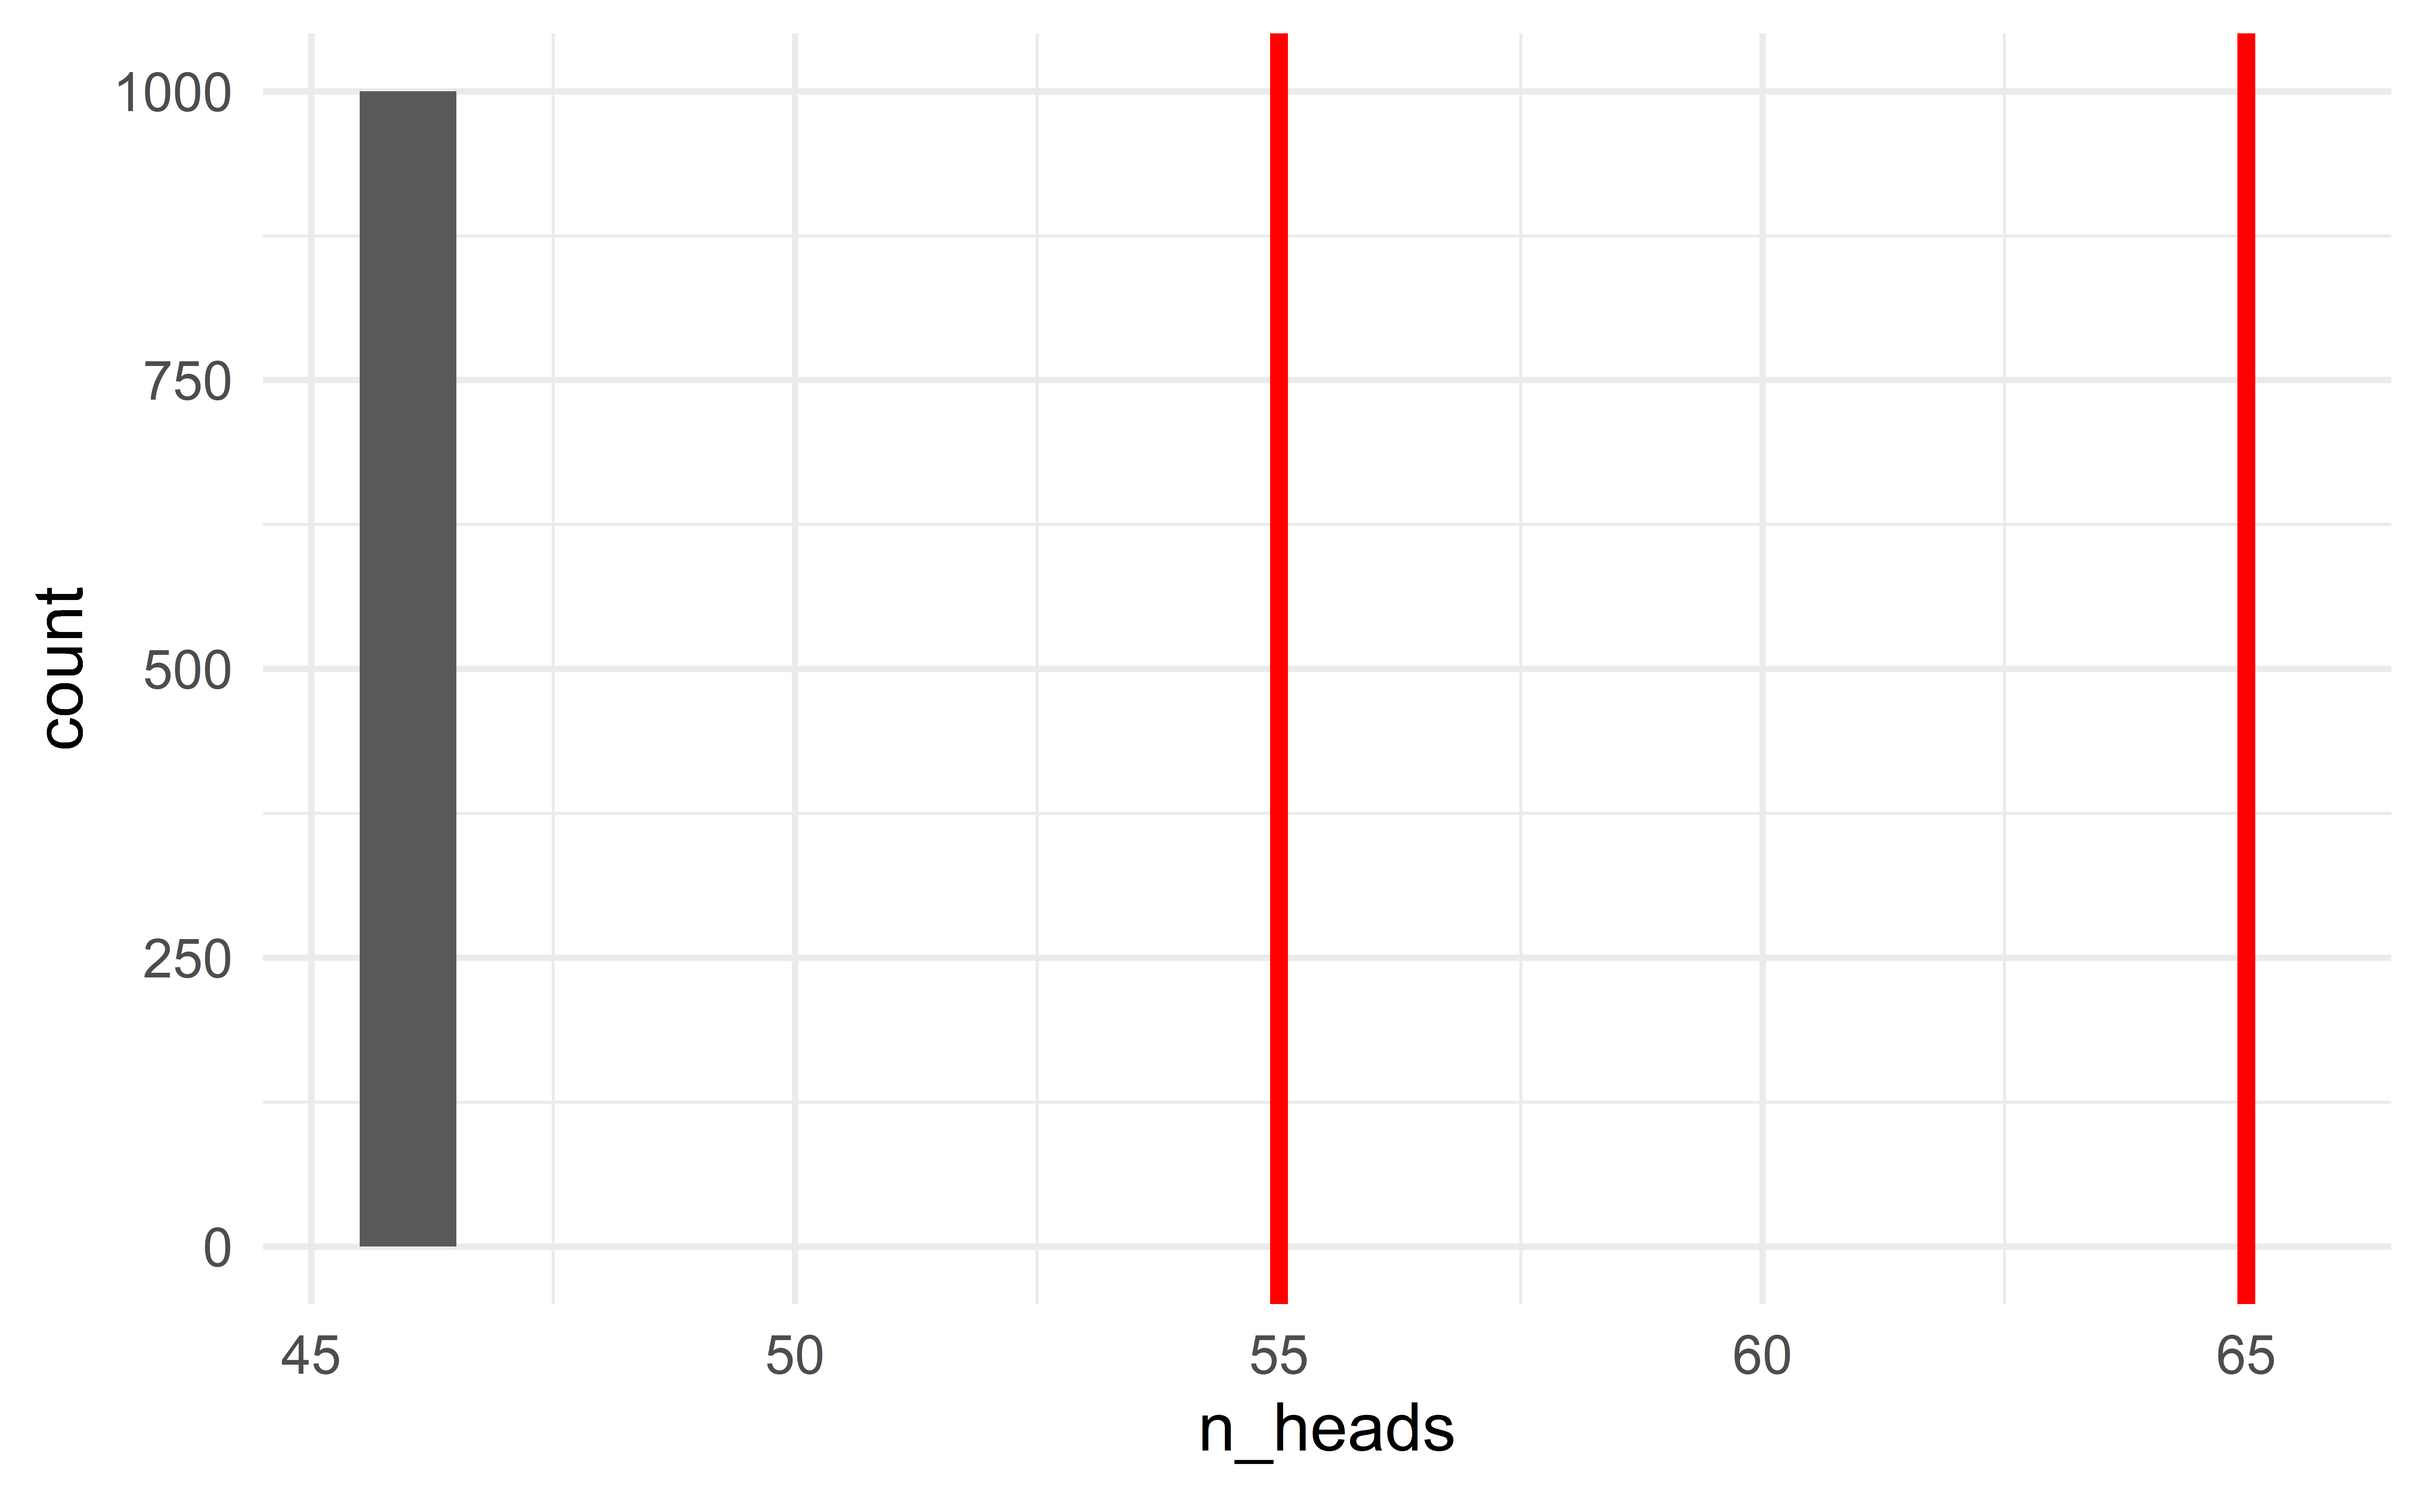
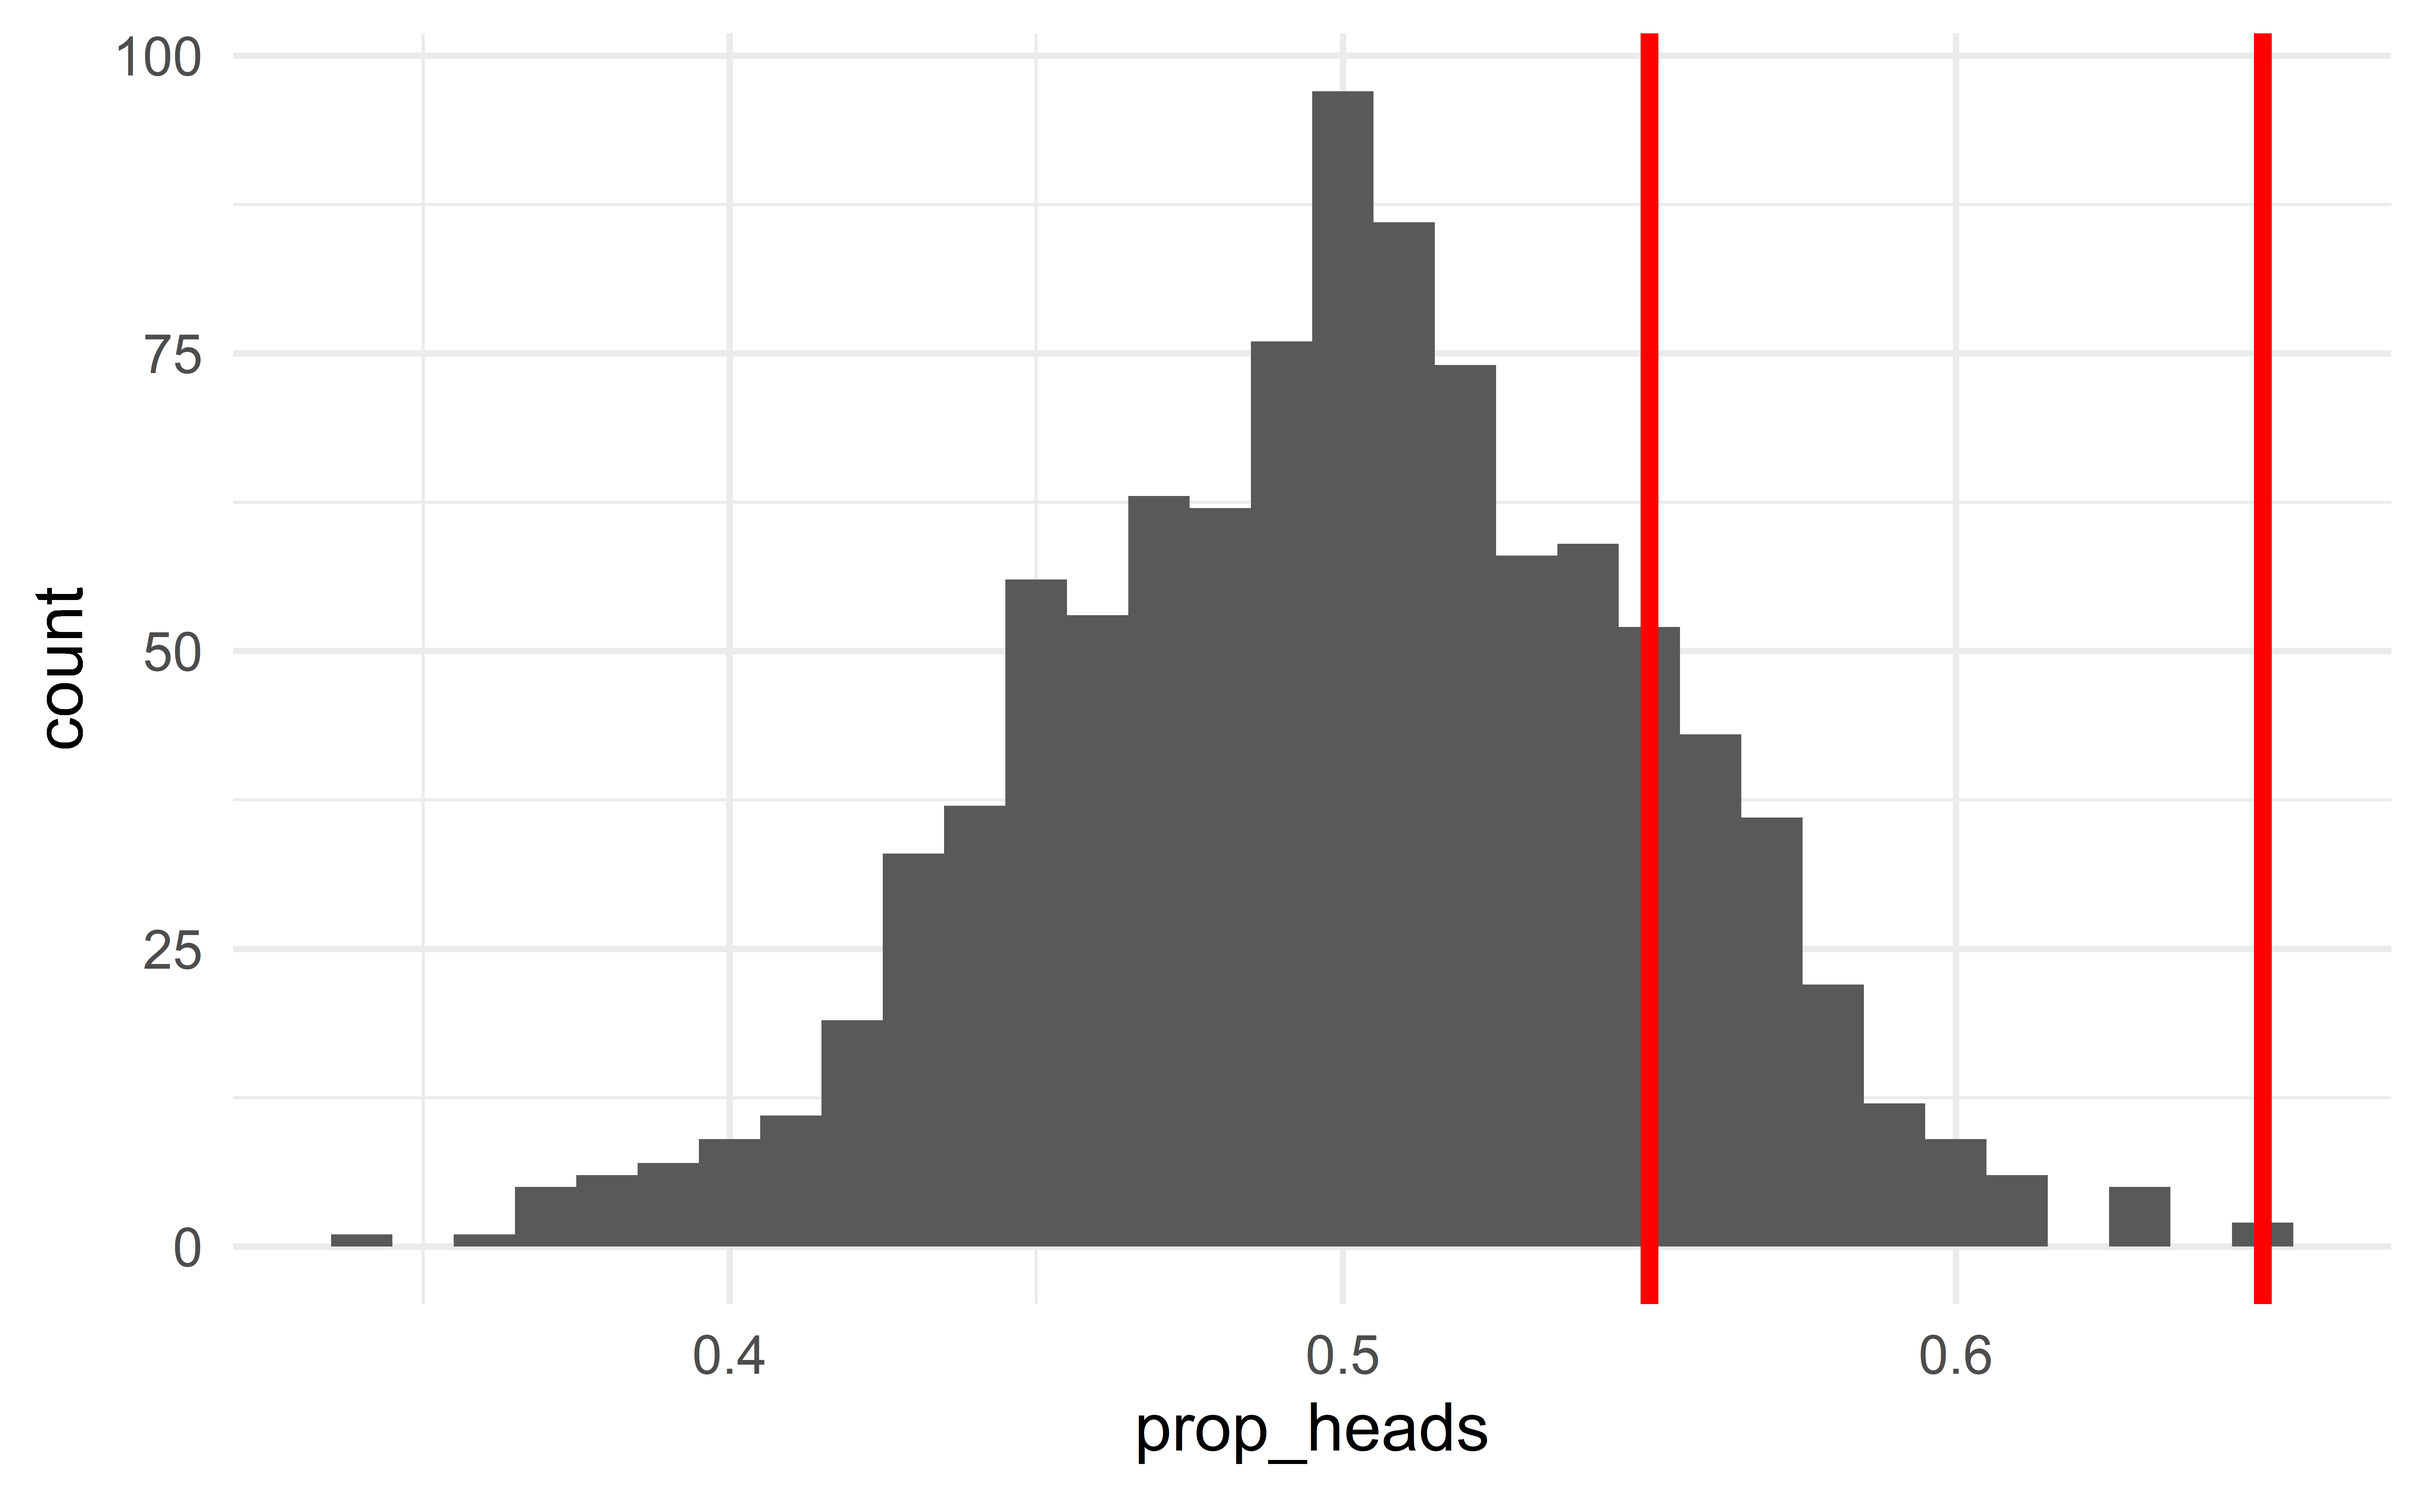
lec-8 typos

diff --git a/docs/slides/lec-8.html b/docs/slides/lec-8.html
@@ -488,7 +488,7 @@
 </div>
 <div class="cell" data-layout-align="center">
 <div class="cell-output-display">
-<div class="countdown" id="timer_62964e37" style="right:0;bottom:0;" data-warnwhen="0">
+<div class="countdown" id="timer_6297ff8a" style="right:0;bottom:0;" data-warnwhen="0">
 <code class="countdown-time"><span class="countdown-digits minutes">03</span><span class="countdown-digits colon">:</span><span class="countdown-digits seconds">00</span></code>
 </div>
 </div>
@@ -668,12 +668,12 @@
 <li><p><span class="math inline">\(H_0:\)</span> the proportion of vegetarian is the same among undergraduate and graduate students (“nothing is going on”) <span class="math display">\[
 H_0: p_{diff}=p_{undegrad}-p_{grad}=0
 \]</span> <span class="math display">\[
-H_0: p_{undegrad}=p_{grad}
+H_a: p_{undegrad}=p_{grad}
 \]</span></p></li>
 <li><p><span class="math inline">\(H_a:\)</span> the proportion of vegetarians among undergraduate and graduate students is not the same (“something is going on”). <span class="math display">\[
 H_0: p_{diff}=p_{undegrad}-p_{grad}\neq0
 \]</span> <span class="math display">\[
-H_0: p_{undegrad}\neq p_{grad}
+H_a: p_{undegrad}\neq p_{grad}
 \]</span></p></li>
 </ul>
 </section>
@@ -712,7 +712,7 @@ H_0: p_{undegrad}\neq p_{grad}
 </div>
 <div class="cell" data-layout-align="center">
 <div class="cell-output-display">
-<div class="countdown" id="timer_62964d08" style="right:0;bottom:0;" data-warnwhen="0">
+<div class="countdown" id="timer_6297ff23" style="right:0;bottom:0;" data-warnwhen="0">
 <code class="countdown-time"><span class="countdown-digits minutes">04</span><span class="countdown-digits colon">:</span><span class="countdown-digits seconds">00</span></code>
 </div>
 </div>
@@ -773,7 +773,7 @@ H_0: p_{undegrad}\neq p_{grad}
 </div>
 <div class="cell" data-layout-align="center">
 <div class="cell-output-display">
-<div class="countdown" id="timer_62964c5e" style="right:0;bottom:0;" data-warnwhen="0">
+<div class="countdown" id="timer_6297fc32" style="right:0;bottom:0;" data-warnwhen="0">
 <code class="countdown-time"><span class="countdown-digits minutes">03</span><span class="countdown-digits colon">:</span><span class="countdown-digits seconds">00</span></code>
 </div>
 </div>
@@ -789,7 +789,7 @@ H_0: p_{undegrad}\neq p_{grad}
 <p><strong>CI</strong>: range of plausible values for the population parameter.</p>
 <p>There always is natural variability in the data.</p>
 <ul>
-<li><p>If we draw a second sample from the population, the two samples will differ and the sample statistics will not be the same (e.g., <span class="math inline">\(\hat{p}_1\neq\hat{p}_2\)</span>, <span class="math inline">\(\bar{x}_1\neq\bar{x}_2\)</span> and <span class="math inline">\(\hat{\beta}^{(1)\neq\bar{x}_2\)</span>).</p></li>
+<li><p>If we draw a second sample from the population, the two samples will differ and the sample statistics will not be the same (e.g., <span class="math inline">\(\hat{p}_1\neq\hat{p}_2\)</span>, <span class="math inline">\(\bar{x}_1\neq\bar{x}_2\)</span> and <span class="math inline">\(\hat{\beta}^{(1)}_1\neq\hat{\beta}^{(2)}_1\)</span>).</p></li>
 <li><p>There is thus no reason to believe that the sample statistic in the first sample is exactly equal to the population parameter (e.g.&nbsp;<span class="math inline">\(\hat{p}_1 = p\)</span> and <span class="math inline">\(\bar{x}_1=\mu\)</span>).</p></li>
 </ul>
 </section>
@@ -854,7 +854,7 @@ H_0: p_{undegrad}\neq p_{grad}
 </div>
 <div class="cell" data-layout-align="center">
 <div class="cell-output-display">
-<div class="countdown" id="timer_62964f0a" style="right:0;bottom:0;" data-warnwhen="0">
+<div class="countdown" id="timer_6297fc26" style="right:0;bottom:0;" data-warnwhen="0">
 <code class="countdown-time"><span class="countdown-digits minutes">02</span><span class="countdown-digits colon">:</span><span class="countdown-digits seconds">00</span></code>
 </div>
 </div>
@@ -879,7 +879,7 @@ H_0: p_{undegrad}\neq p_{grad}
 <p>Distribution of the sample statistic <span class="math inline">\(\hat{p}\)</span> when <span class="math inline">\(H_0\)</span> is true.</p>
 <div class="cell" data-layout-align="center">
 <div class="sourceCode" id="cb4"><pre class="sourceCode numberSource r cell-code number-lines code-with-copy"><code class="sourceCode r"><span id="cb4-1"><a href="#cb4-1"></a><span class="fu">ggplot</span>(results) <span class="sc">+</span></span>
-<span id="cb4-2"><a href="#cb4-2"></a>  <span class="fu">geom_histogram</span>(<span class="fu">aes</span>(n_heads), <span class="at">binwidth =</span> <span class="dv">1</span>) <span class="co"># set the binwidth to 1 to ensure that each bin corresponds to exactly one integer.</span></span></code><button title="Copy to Clipboard" class="code-copy-button"><i class="bi"></i></button></pre></div>
+<span id="cb4-2"><a href="#cb4-2"></a>  <span class="fu">geom_histogram</span>(<span class="fu">aes</span>(prop_heads), <span class="at">binwidth =</span> <span class="fl">0.01</span>)</span></code><button title="Copy to Clipboard" class="code-copy-button"><i class="bi"></i></button></pre></div>
 
 </div>
 <img data-src="lec-8_files/figure-revealjs/unnamed-chunk-7-1.png" style="width:80.0%" class="r-stretch quarto-figure-center"></section>
@@ -905,14 +905,14 @@ H_0: p_{undegrad}\neq p_{grad}
 <h2>Null and alternative hypotheses</h2>
 <ul>
 <li><p><span class="math inline">\(H_0:p=0.5\)</span> (the coin is fair)</p></li>
-<li><p><span class="math inline">\(H_0:p\neq0.5\)</span> (the coin is not fair)</p></li>
+<li><p><span class="math inline">\(H_a:p\neq0.5\)</span> (the coin is not fair)</p></li>
 </ul>
 </section>
 <section id="like-jurors-in-the-justice-system" class="slide level2 smaller">
 <h2>Like jurors in the justice system</h2>
 <ul>
 <li><p><span class="math inline">\(H_0:\)</span> innocent (the coin is fair)</p></li>
-<li><p><span class="math inline">\(H_0:\)</span> guilty (the coin is not fair)</p></li>
+<li><p><span class="math inline">\(H_a:\)</span> guilty (the coin is not fair)</p></li>
 </ul>
 <p>Question: do the facts (the sample) provide sufficient evidence to reject the claim that the defendant is innocent (that the coin is fair)?</p>
 <ul>
@@ -937,8 +937,8 @@ H_0: p_{undegrad}\neq p_{grad}
 <h2></h2>
 <div class="cell" data-layout-align="center">
 <div class="sourceCode" id="cb5"><pre class="sourceCode numberSource r cell-code number-lines code-with-copy"><code class="sourceCode r"><span id="cb5-1"><a href="#cb5-1"></a><span class="fu">ggplot</span>(results) <span class="sc">+</span> </span>
-<span id="cb5-2"><a href="#cb5-2"></a>  <span class="fu">geom_histogram</span>(<span class="fu">aes</span>(n_heads), <span class="at">binwidth =</span> <span class="dv">1</span>) <span class="sc">+</span></span>
-<span id="cb5-3"><a href="#cb5-3"></a>  <span class="fu">geom_vline</span>(<span class="at">xintercept =</span> <span class="fu">c</span>(<span class="dv">55</span>,<span class="dv">65</span>), <span class="at">col =</span> <span class="st">"red"</span>, <span class="at">size =</span> <span class="dv">2</span>)</span></code><button title="Copy to Clipboard" class="code-copy-button"><i class="bi"></i></button></pre></div>
+<span id="cb5-2"><a href="#cb5-2"></a>  <span class="fu">geom_histogram</span>(<span class="fu">aes</span>(prop_heads), <span class="at">binwidth =</span> <span class="fl">0.01</span>) <span class="sc">+</span></span>
+<span id="cb5-3"><a href="#cb5-3"></a>  <span class="fu">geom_vline</span>(<span class="at">xintercept =</span> <span class="fu">c</span>(<span class="fl">0.55</span>, <span class="fl">0.65</span>), <span class="at">col =</span> <span class="st">"red"</span>, <span class="at">size =</span> <span class="dv">2</span>)</span></code><button title="Copy to Clipboard" class="code-copy-button"><i class="bi"></i></button></pre></div>
 
 </div>
 <img data-src="lec-8_files/figure-revealjs/unnamed-chunk-8-1.png" style="width:80.0%" class="r-stretch quarto-figure-center"></section>
@@ -1106,7 +1106,7 @@ H_0: p_{undegrad}\neq p_{grad}
 </div>
 <div class="cell" data-layout-align="center">
 <div class="cell-output-display">
-<div class="countdown" id="timer_62964c56" style="right:0;bottom:0;" data-warnwhen="0">
+<div class="countdown" id="timer_6297fff9" style="right:0;bottom:0;" data-warnwhen="0">
 <code class="countdown-time"><span class="countdown-digits minutes">06</span><span class="countdown-digits colon">:</span><span class="countdown-digits seconds">00</span></code>
 </div>
 </div>
@@ -1126,7 +1126,7 @@ H_0: p_{undegrad}\neq p_{grad}
 </div>
 <div class="cell" data-layout-align="center">
 <div class="cell-output-display">
-<div class="countdown" id="timer_6296501a" style="right:0;bottom:0;" data-warnwhen="0">
+<div class="countdown" id="timer_6297fcae" style="right:0;bottom:0;" data-warnwhen="0">
 <code class="countdown-time"><span class="countdown-digits minutes">03</span><span class="countdown-digits colon">:</span><span class="countdown-digits seconds">00</span></code>
 </div>
 </div>

diff --git a/docs/slides/lec-9.html b/docs/slides/lec-9.html
@@ -692,7 +692,7 @@
 </div>
 <div class="cell" data-layout-align="center">
 <div class="cell-output-display">
-<div class="countdown" id="timer_62969525" style="right:0;bottom:0;" data-warnwhen="0">
+<div class="countdown" id="timer_6297fb7b" style="right:0;bottom:0;" data-warnwhen="0">
 <code class="countdown-time"><span class="countdown-digits minutes">03</span><span class="countdown-digits colon">:</span><span class="countdown-digits seconds">00</span></code>
 </div>
 </div>
